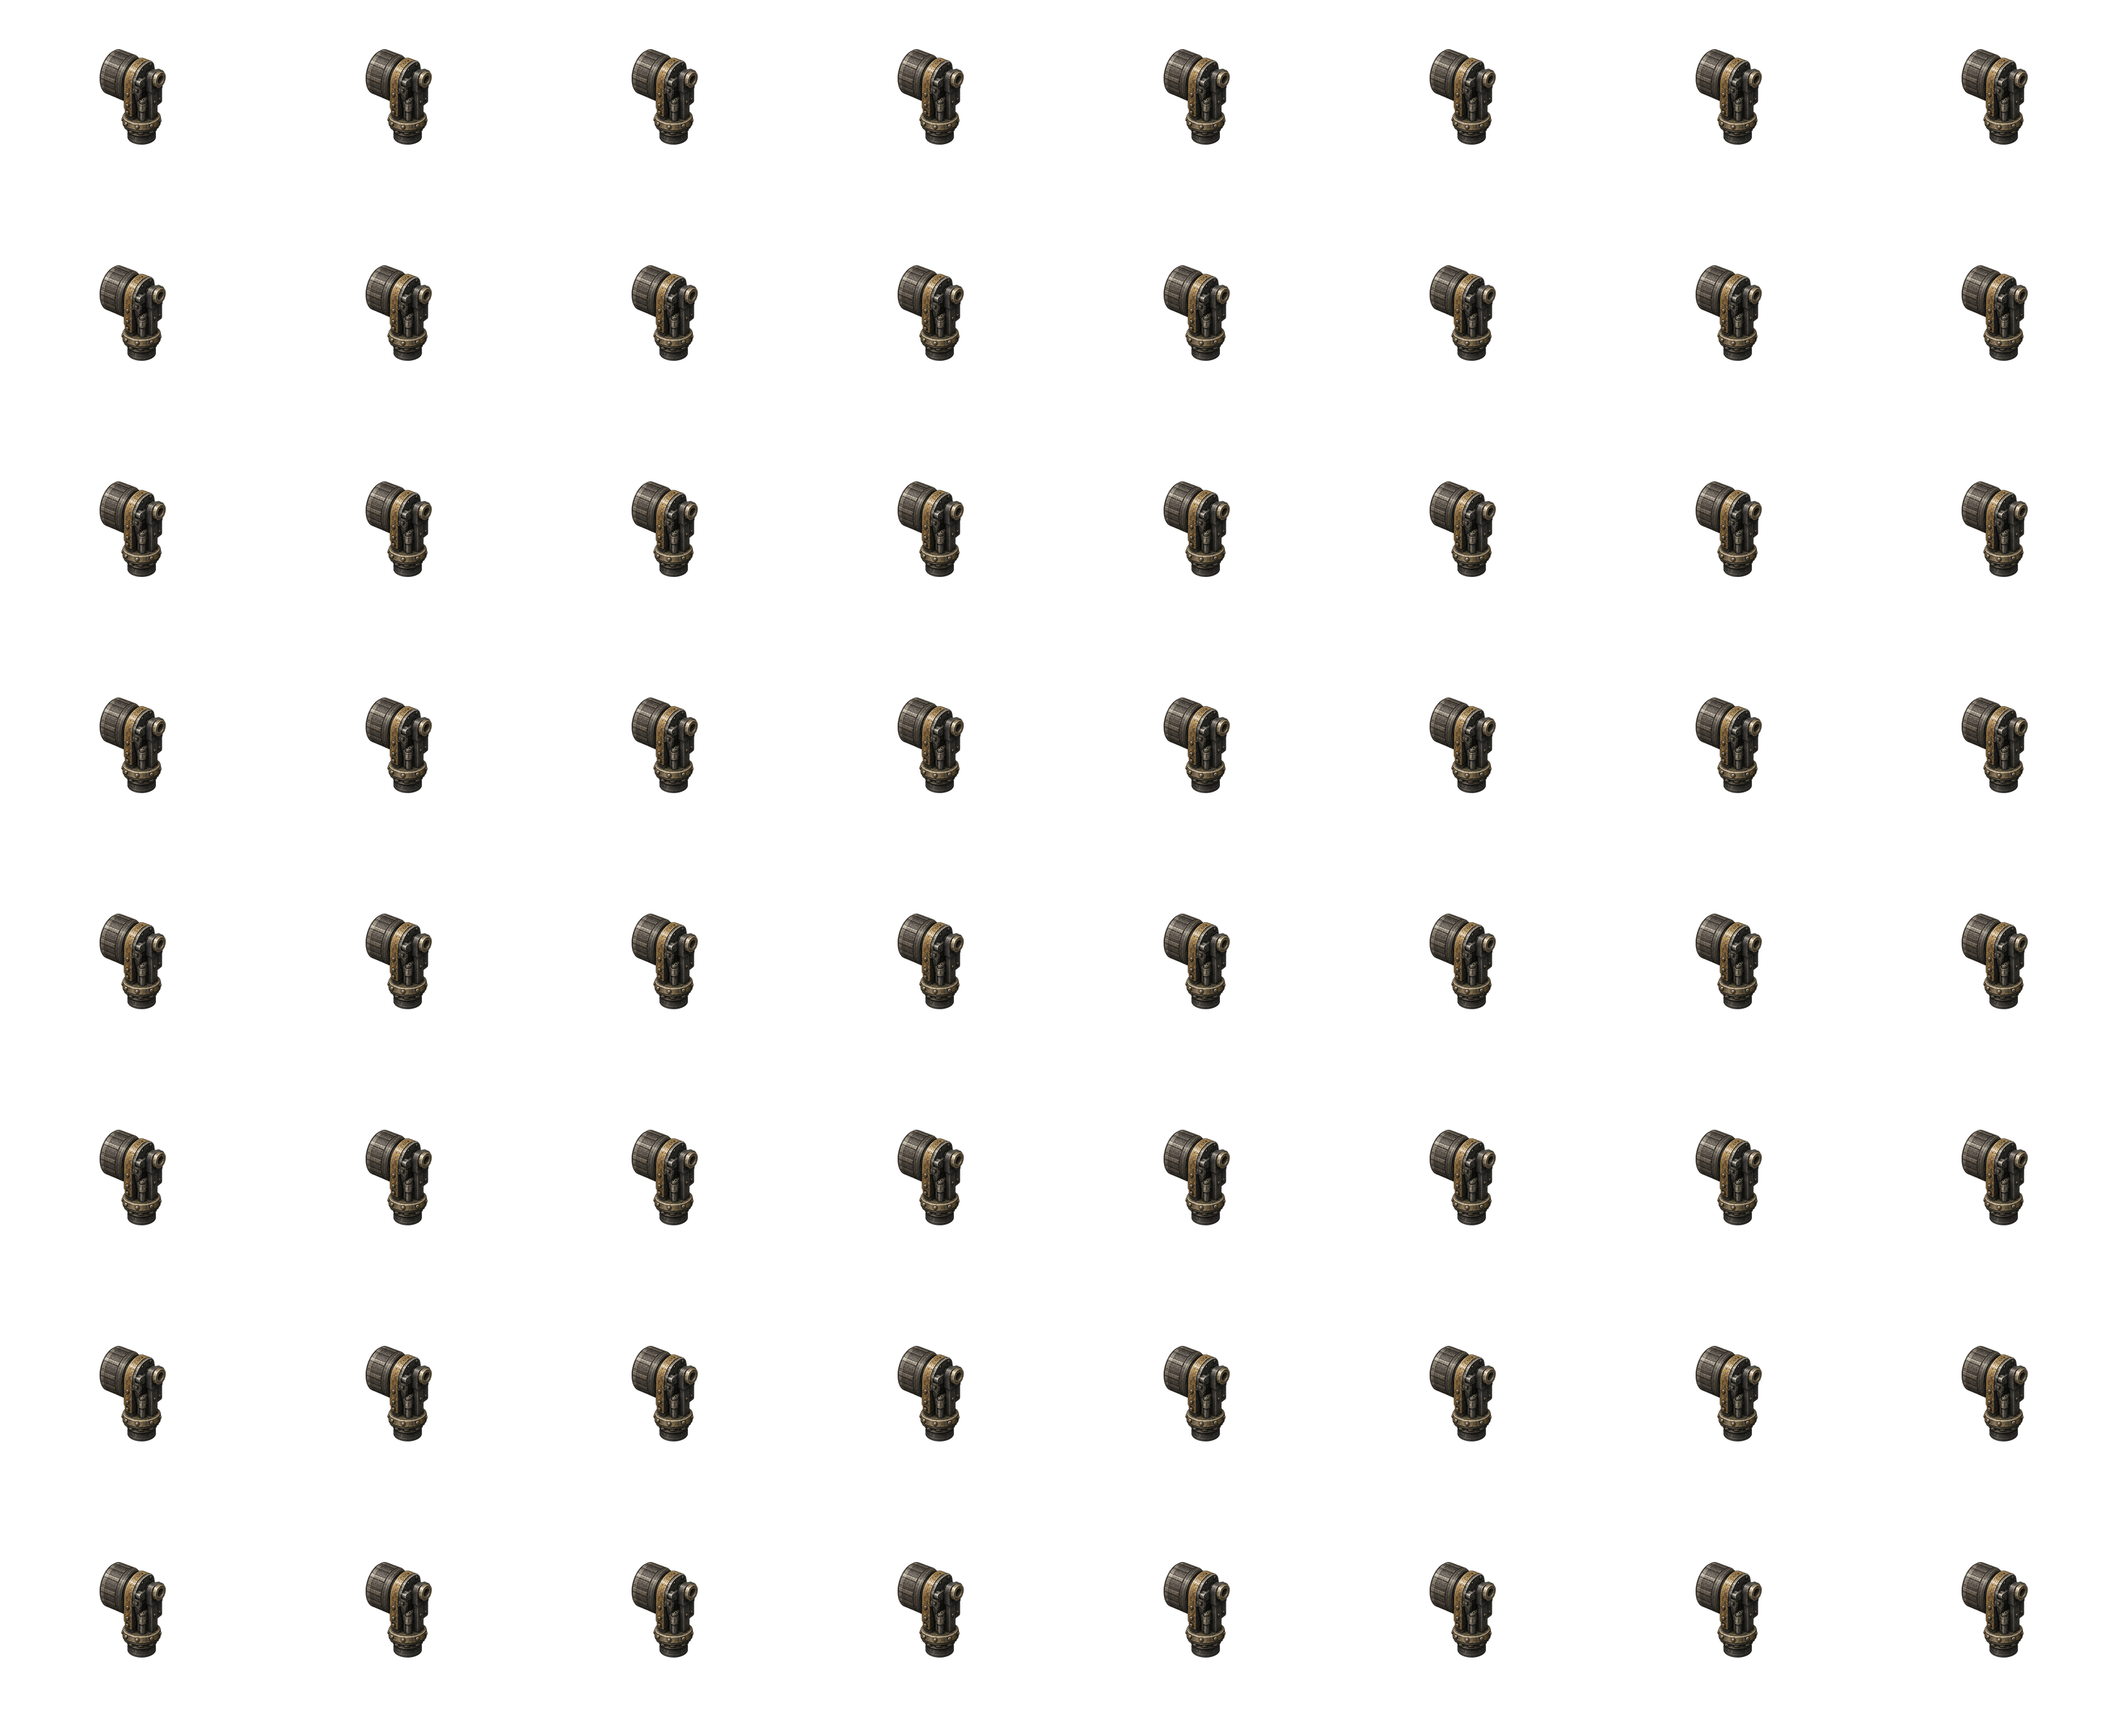
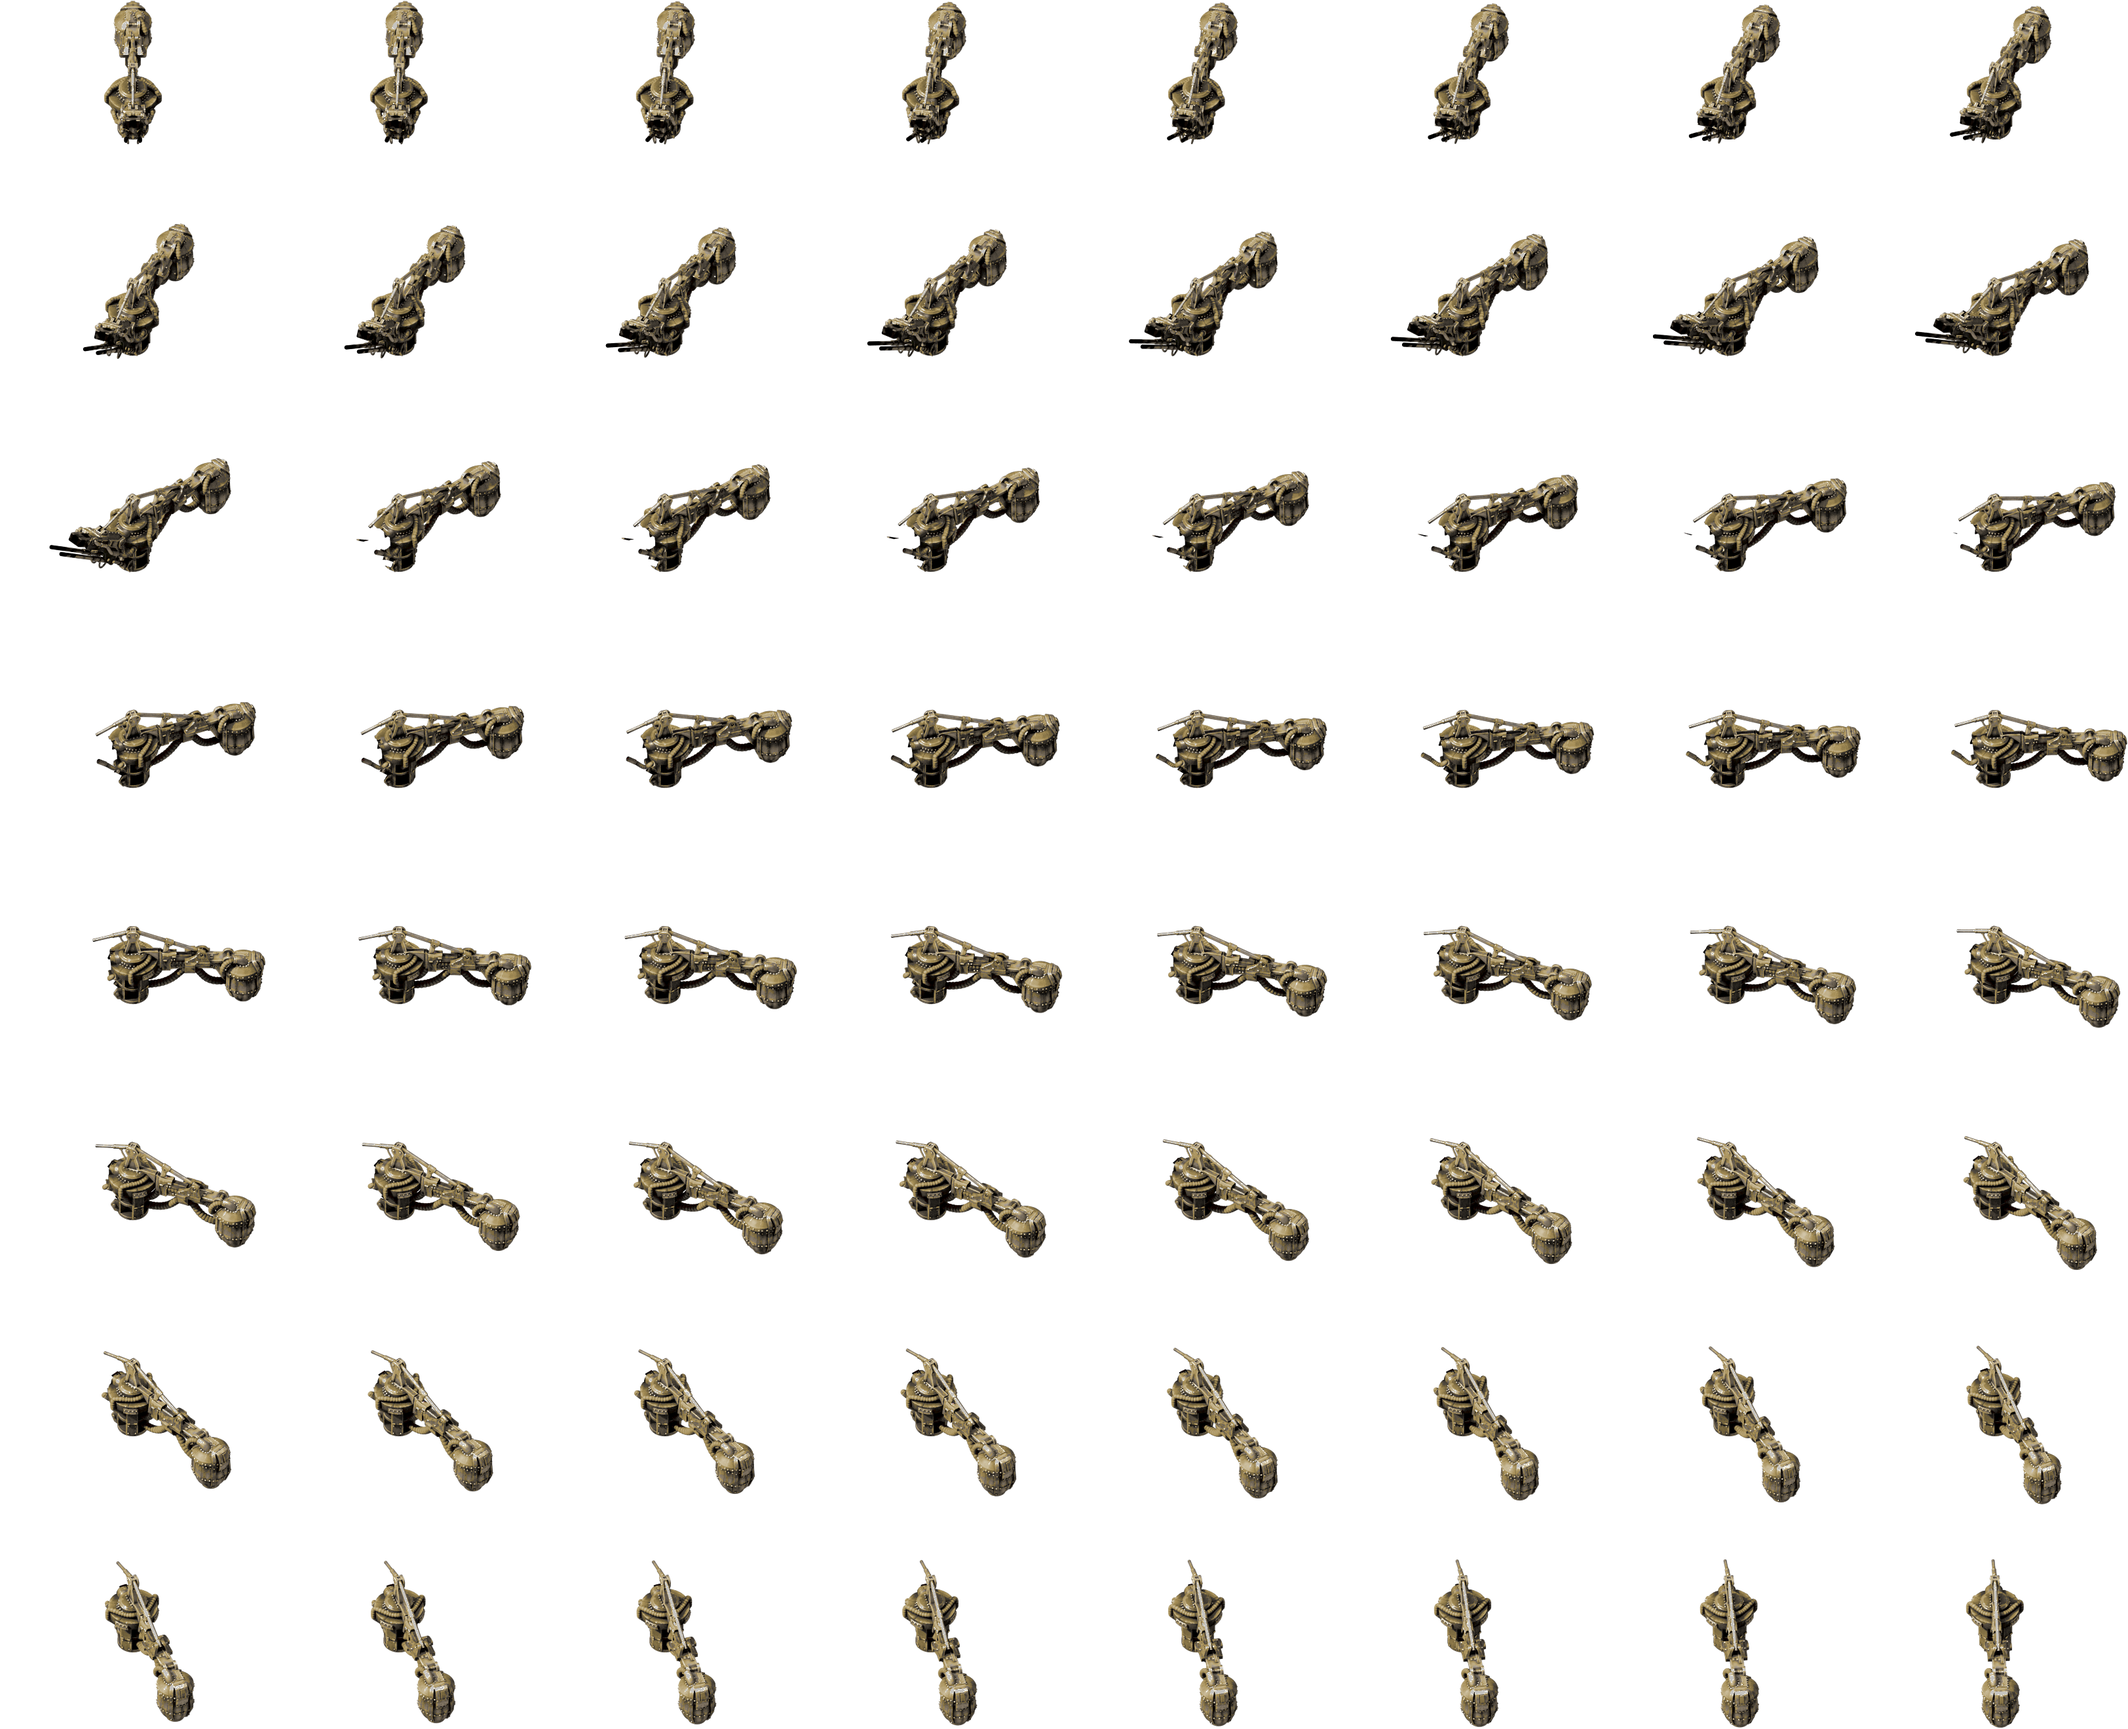
B1: restore the crane arm, and disable the tool that broke it
Ten of the bed tender's twenty-nine crane sprites were wrong, and the cause was
not the recolour. build-crane-sheets.py had deliberately replaced those exact
ten, stamping one canonical vertical drawing into every frame of each rotation
sheet, on the argument that vanilla's frames are one pose differing only in
shading -- measured at "at most 26%" on part 5 and then generalised.

It does not generalise. Frames 0, 32, 64 and 96 of vanilla's part 3 are
genuinely different views: different shading, different self-occlusion, hoses on
different sides, and frame 64 empty because the part is hidden at that angle.
Ours drew the same strut in all four, so the arm's segments never changed as it
swung and a segment appeared at angles where vanilla draws nothing.

Reverted by re-running recolour-crane.py. Verified: zero alpha mismatches across
all twenty-nine sprites, and part 3's frames 0 and 32 now differ by 23.91 mean
where they previously differed by exactly 0.

build-crane-sheets.py is kept but marked DO NOT RUN, with the measurement that
disproves it, because it is a real attempt worth remembering rather than
rediscovering. Making the arm genuinely ours needs a 3D model, which is the
conclusion recolour-crane.py already reached.

Claude-Session: https://claude.ai/code/session_01PHoDcDisYsZ9VzkQUA8DeN

diff --git a/tools/build-crane-sheets.py b/tools/build-crane-sheets.py
@@ -1,6 +1,23 @@
 #!/usr/bin/env python3
 """Build the Bed Tender crane's rotation sheets from one drawing per part.
 
+**DO NOT RUN THIS. Its central assumption is false and it corrupts the arm.**
+
+The claim below -- that vanilla's frames are one pose differing only in shading,
+measured at "at most 26%" on part 5 -- does not generalise. Extracting frames 0,
+32, 64 and 96 from vanilla's part 3 shows genuinely different views: different
+shading, different self-occlusion, hoses on different sides, and frame 64 *empty*
+because the part is hidden at that angle. Stamping one drawing into every frame
+gives an arm whose segments never change as it swings, and which draws a segment
+at angles where vanilla draws none. That is what "the crane arm is all messed up"
+looked like in game.
+
+The ten parts it wrote have been reverted to recoloured vanilla via
+recolour-crane.py. Kept only as the record of an approach that was tried and
+does not work; making it correct needs a 3D model, which is the same conclusion
+recolour-crane.py reaches.
+
+
 The crane is a turntable: seven parts, each a `rotated_sprite` with
 `direction_count` 64 or 128, stored as a spritesheet of that many frames. It is
 tempting to conclude that authoring one means drawing 128 angles per part. It

diff --git a/TODO-core-buildings.md b/TODO-core-buildings.md
@@ -6,13 +6,32 @@ here as they land; this file is deleted when the list is empty.
 
 ## Defects found in existing buildings
 
-- [ ] **B1 · Crane arm is corrupt.** 10 of the Bed Tender's 29 crane sprites
+- [x] **B1 · Crane arm is corrupt — FIXED.** 10 of the Bed Tender's 29 crane sprites
       have a destroyed alpha channel — max delta 255, more pixels changed than
       were ever opaque, so those segments render as solid blocks instead of a
       shaped arm. Damaged: `crane-1-1`, `crane-1-2`, `crane-3`, `crane-4`,
       `crane-5-1`, `crane-5-2`, `crane-6`, `crane-7-1`, `crane-7-2`, `crane-8`.
-      Undamaged: the shadows, the reflections, `crane-2`, `crane-9`, `crane-10`.
-      Fix `tools/recolour-crane.py` to preserve alpha, then re-run it.
+      Undamaged: the shadows, the reflections, `crane-9`, `crane-10`.
+
+      **The cause was not the recolour.** `tools/build-crane-sheets.py` had
+      deliberately replaced those exact ten parts with bespoke art, stamping one
+      canonical vertical drawing into every frame of each rotation sheet. Its
+      argument was that vanilla's frames are all the same pose and differ only in
+      shading — measured at "at most 26%" on part 5, then generalised to the set.
+
+      That does not hold. Extracting frames 0, 32, 64 and 96 from vanilla's part 3
+      shows genuinely different views: different shading, different self-occlusion,
+      hoses on different sides, and **frame 64 empty**, because the part is hidden
+      at that angle. Ours drew the same strut in all four — so the arm's segments
+      never changed as it swung, and a segment appeared at angles where vanilla
+      draws nothing.
+
+      Fixed by re-running `tools/recolour-crane.py`, which restores recoloured
+      vanilla geometry for all ten. Verified: **0 alpha mismatches** across all 29
+      sprites, and part 3's frames 0 and 32 now differ by 23.91 mean where they
+      previously differed by 0. This is exactly the case `recolour-crane.py`'s own
+      docstring makes — *"an image generator cannot produce 64 consistent angles
+      of anything"*.
 - [ ] **B2 · Sealed roboport's port is too small.** Robots emerge wrongly. Two
       causes: `spawn_and_station_height` is still vanilla's `0.3`, tuned to
       vanilla's roof, and the iris is drawn closed with
